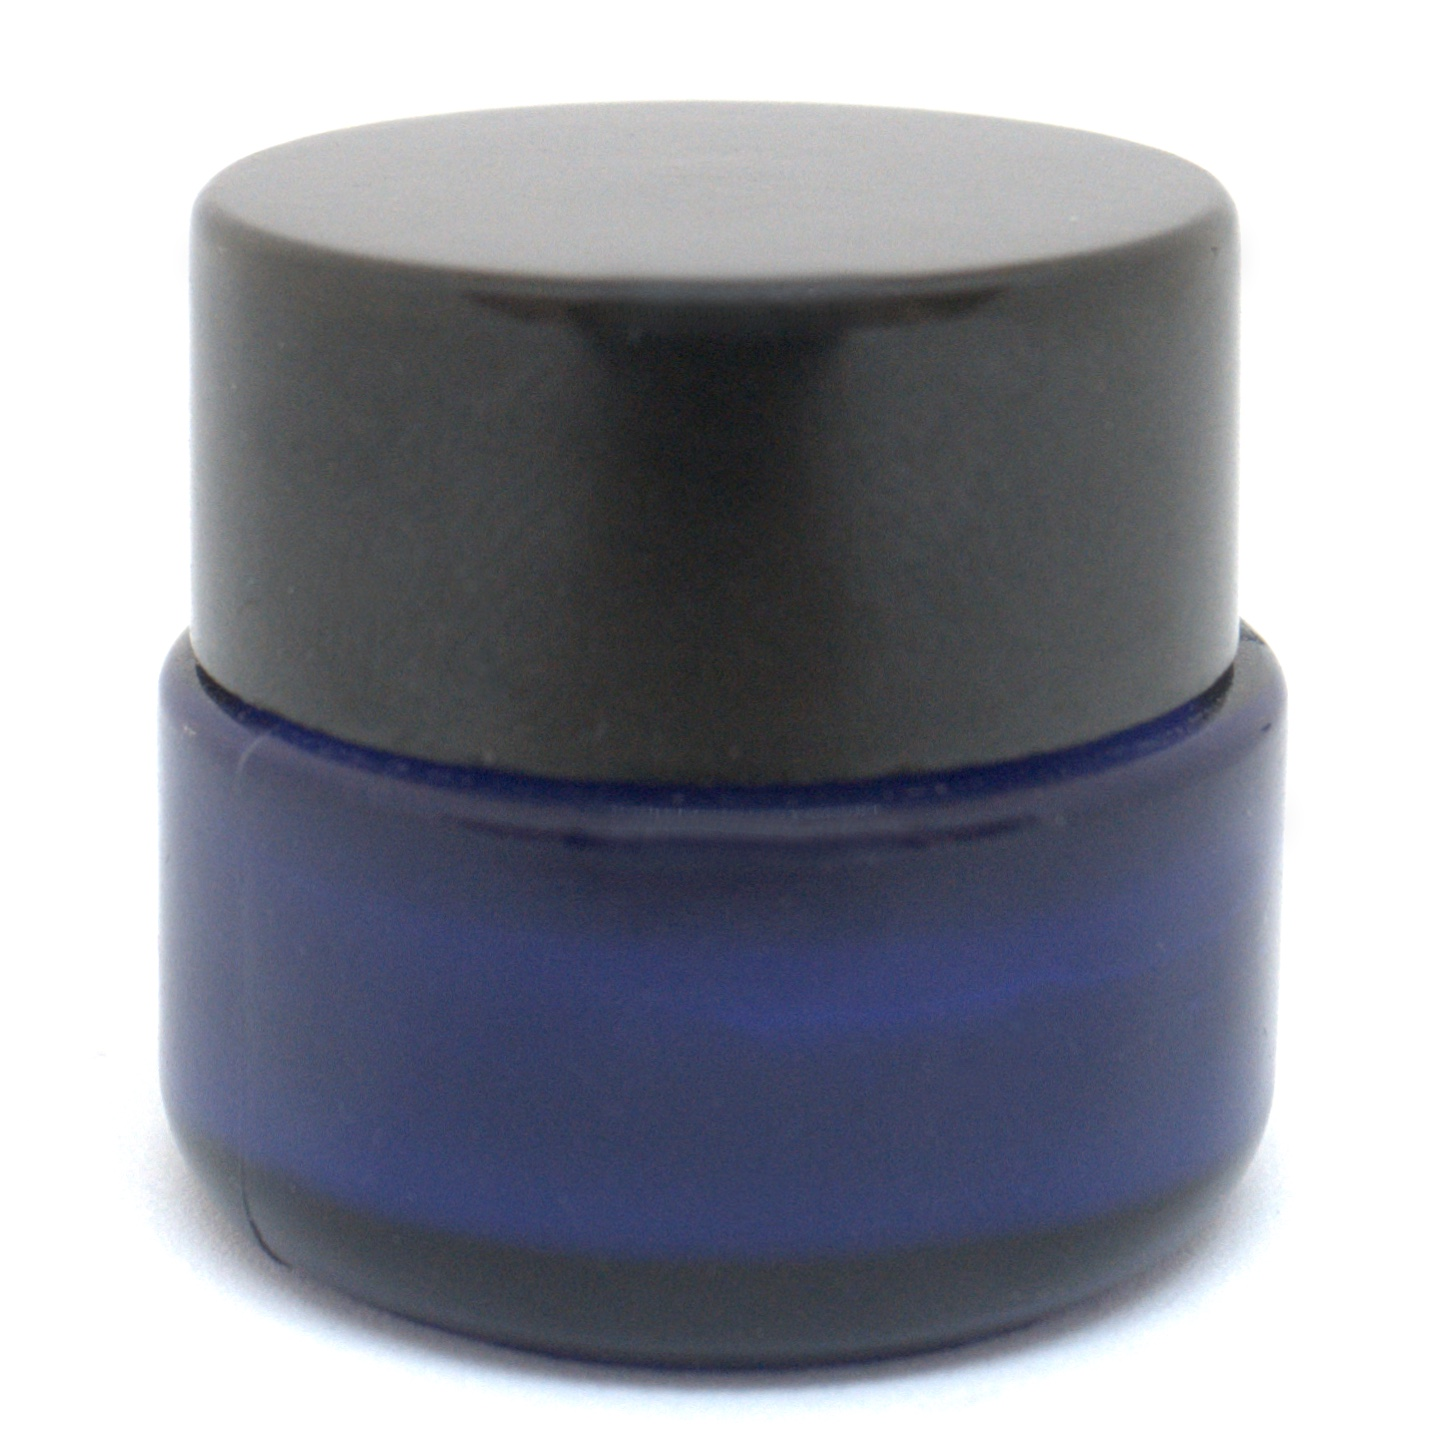
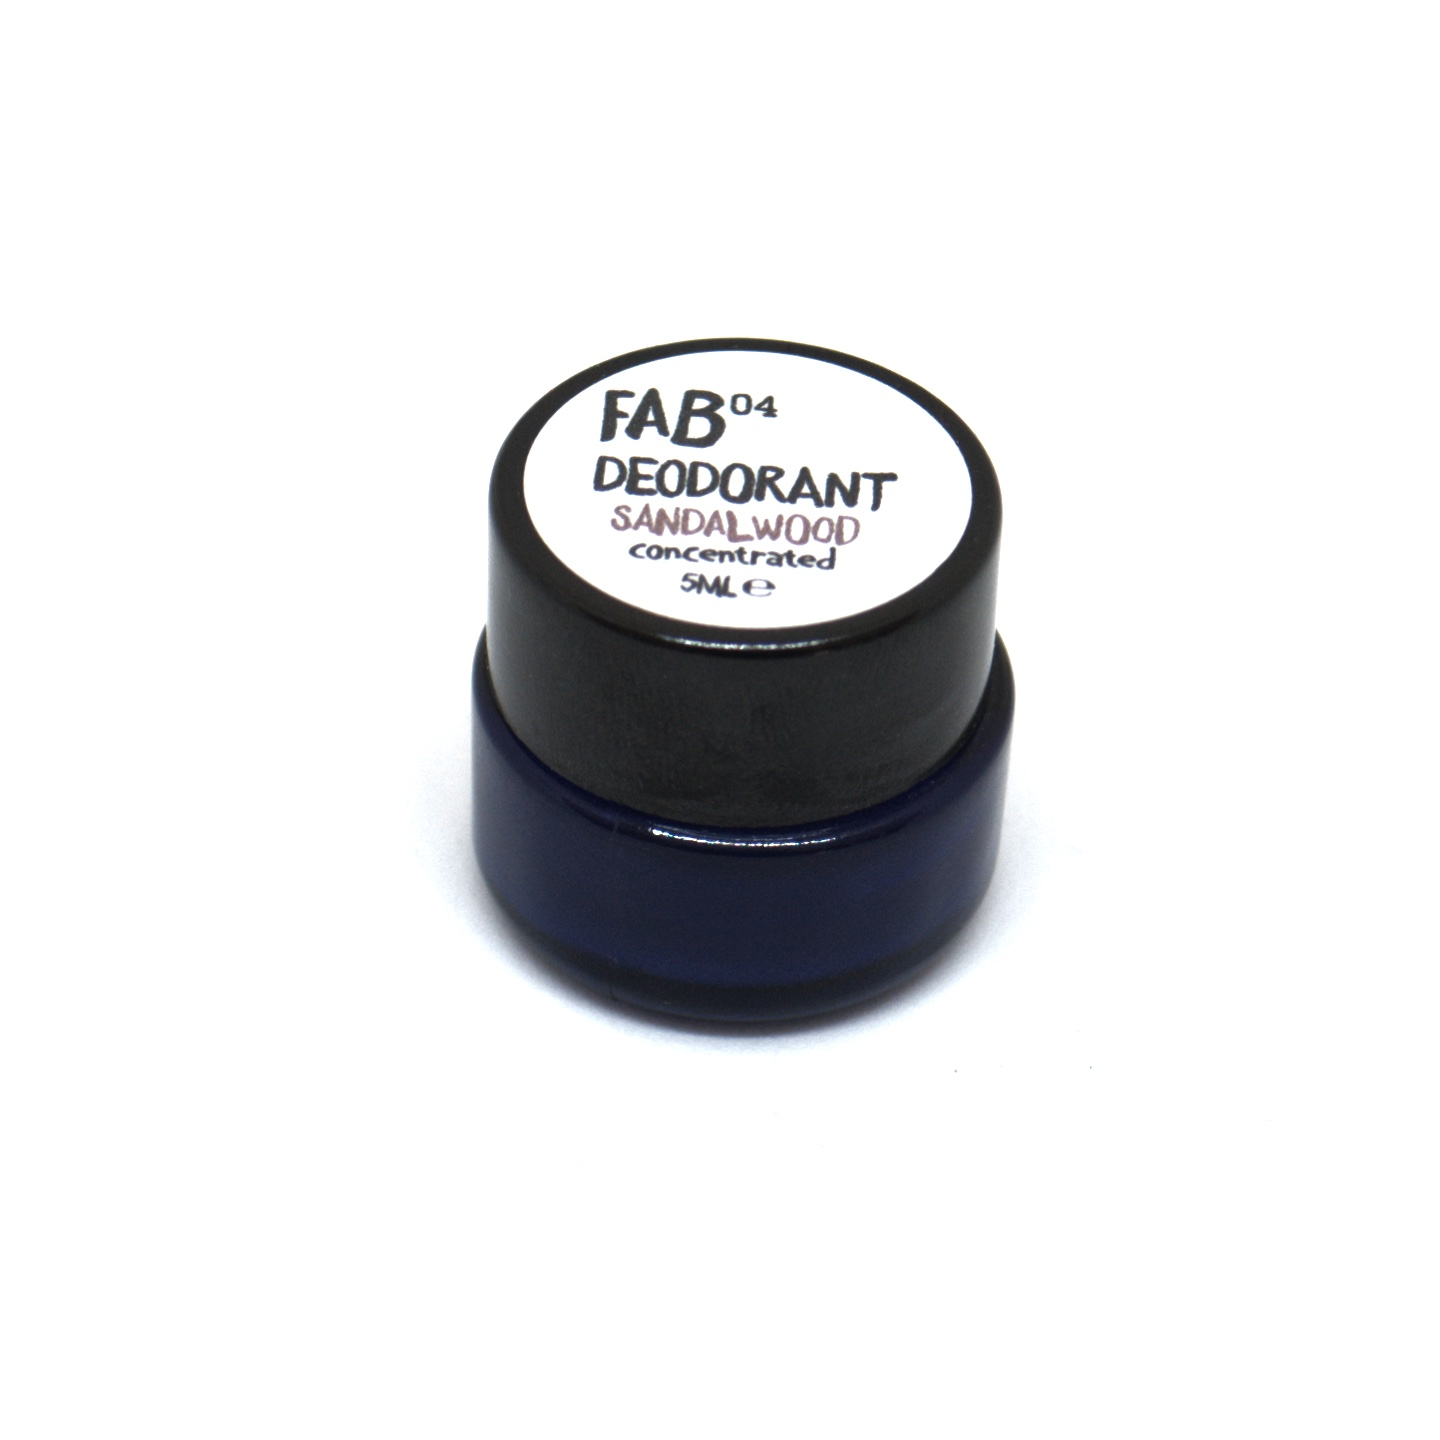
Updated fab 04 photos

diff --git a/_site/products/fab04/index.html b/_site/products/fab04/index.html
@@ -34,9 +34,9 @@
 <meta property="og:url" content="http://localhost:4000/products/fab04/" />
 <meta property="og:site_name" content="Interviews with people who eat plant based foods, online shop selling handmade products such as plant powered snack bars. Thoughts and ideas on sustainability, yoga, food" />
 <meta property="og:type" content="article" />
-<meta property="article:published_time" content="2018-07-11T13:21:10+00:00" />
+<meta property="article:published_time" content="2018-07-12T11:44:50+00:00" />
 <script type="application/ld+json">
-{"description":"A deodorant made from natural oils, that does not block sweat pores on the skin. Perspiration is a natural homeostatic process, that secretes a salty fluid—why would you want to interfere with that? Which is what deodarants or antiperspirants made with lots of chemicals do—some even contain aluminium which is toxic. Sometimes that salty fluid can smell and FAB deodarant is a great way to clean the fluid and the sandalwood will leave a subtle beautiful smell on your armpit. FAB_04 deodarant does not feel greasy when applied. It’s very concentrated and a little goes a long way. The FAB_04 deodorant will not interfere with your perfume or make-up. It’s a unisex product. I use it everyday FAB_04 is scented with sandalwood, making it a great smelling deodorant. The 5ml pot is transportable and easy to use. Fab when you need to use it any time of the day.","author":{"@type":"Person","name":"Rajiv Shah"},"@type":"BlogPosting","url":"http://localhost:4000/products/fab04/","headline":"FAB 04","dateModified":"2018-07-11T13:21:10+00:00","datePublished":"2018-07-11T13:21:10+00:00","mainEntityOfPage":{"@type":"WebPage","@id":"http://localhost:4000/products/fab04/"},"@context":"http://schema.org"}</script>
+{"description":"A deodorant made from natural oils, that does not block sweat pores on the skin. Perspiration is a natural homeostatic process, that secretes a salty fluid—why would you want to interfere with that? Which is what deodarants or antiperspirants made with lots of chemicals do—some even contain aluminium which is toxic. Sometimes that salty fluid can smell and FAB deodarant is a great way to clean the fluid and the sandalwood will leave a subtle beautiful smell on your armpit. FAB_04 deodarant does not feel greasy when applied. It’s very concentrated and a little goes a long way. The FAB_04 deodorant will not interfere with your perfume or make-up. It’s a unisex product. I use it everyday FAB_04 is scented with sandalwood, making it a great smelling deodorant. The 5ml pot is transportable and easy to use. Fab when you need to use it any time of the day.","author":{"@type":"Person","name":"Rajiv Shah"},"@type":"BlogPosting","url":"http://localhost:4000/products/fab04/","headline":"FAB 04","dateModified":"2018-07-12T11:44:50+00:00","datePublished":"2018-07-12T11:44:50+00:00","mainEntityOfPage":{"@type":"WebPage","@id":"http://localhost:4000/products/fab04/"},"@context":"http://schema.org"}</script>
 <!-- End Jekyll SEO tag -->
 
 </head>

diff --git a/_site/products/fab03/index.html b/_site/products/fab03/index.html
@@ -34,9 +34,9 @@
 <meta property="og:url" content="http://localhost:4000/products/fab03/" />
 <meta property="og:site_name" content="Interviews with people who eat plant based foods, online shop selling handmade products such as plant powered snack bars. Thoughts and ideas on sustainability, yoga, food" />
 <meta property="og:type" content="article" />
-<meta property="article:published_time" content="2018-07-11T13:21:10+00:00" />
+<meta property="article:published_time" content="2018-07-12T11:44:50+00:00" />
 <script type="application/ld+json">
-{"description":"An all over face and body butter. It does not feel greasy when applied. It’s very concentrated and a little goes a long way. The FAB range will not interfere with your perfume or make-up. It’s a multi-purpose, unisex product. You can use it on your: Face Lips Body Nails Cracked or flaky skin FAB_03 is unscented, making it a great lip balm. The 5ml pot is transportable and easy to use. Fab when you need to mositurise your lips at any time of the day. The double FAB method is when you appy the butter first, and then the oil on top. Try this to give you super soft skin. Especially great for when you have really dry, flaky or cracked skin.","author":{"@type":"Person","name":"Rajiv Shah"},"@type":"BlogPosting","url":"http://localhost:4000/products/fab03/","headline":"FAB 03","dateModified":"2018-07-11T13:21:10+00:00","datePublished":"2018-07-11T13:21:10+00:00","mainEntityOfPage":{"@type":"WebPage","@id":"http://localhost:4000/products/fab03/"},"@context":"http://schema.org"}</script>
+{"description":"An all over face and body butter. It does not feel greasy when applied. It’s very concentrated and a little goes a long way. The FAB range will not interfere with your perfume or make-up. It’s a multi-purpose, unisex product. You can use it on your: Face Lips Body Nails Cracked or flaky skin FAB_03 is unscented, making it a great lip balm. The 5ml pot is transportable and easy to use. Fab when you need to mositurise your lips at any time of the day. The double FAB method is when you appy the butter first, and then the oil on top. Try this to give you super soft skin. Especially great for when you have really dry, flaky or cracked skin.","author":{"@type":"Person","name":"Rajiv Shah"},"@type":"BlogPosting","url":"http://localhost:4000/products/fab03/","headline":"FAB 03","dateModified":"2018-07-12T11:44:50+00:00","datePublished":"2018-07-12T11:44:50+00:00","mainEntityOfPage":{"@type":"WebPage","@id":"http://localhost:4000/products/fab03/"},"@context":"http://schema.org"}</script>
 <!-- End Jekyll SEO tag -->
 
 </head>

diff --git a/_site/products/fab02/index.html b/_site/products/fab02/index.html
@@ -34,9 +34,9 @@
 <meta property="og:url" content="http://localhost:4000/products/fab02/" />
 <meta property="og:site_name" content="Interviews with people who eat plant based foods, online shop selling handmade products such as plant powered snack bars. Thoughts and ideas on sustainability, yoga, food" />
 <meta property="og:type" content="article" />
-<meta property="article:published_time" content="2018-07-11T13:21:10+00:00" />
+<meta property="article:published_time" content="2018-07-12T11:44:50+00:00" />
 <script type="application/ld+json">
-{"description":"An all over face, body and hair butter. It does not feel greasy when applied. It’s very concentrated and a little goes a long way. The FAB range will not interfere with your perfume or make-up. It’s a multi-purpose, unisex product. You can use it on your: Face Body Nails Cracked or flaky skin Use it for moisturising or washing. See instructions below. The double FAB method is when you appy the butter first, and then the oil on top. Try this to give you super soft skin. Especially great for when you have really dry, flaky or cracked skin. Transportable and easy to use.","author":{"@type":"Person","name":"Rajiv Shah"},"@type":"BlogPosting","url":"http://localhost:4000/products/fab02/","headline":"FAB 02","dateModified":"2018-07-11T13:21:10+00:00","datePublished":"2018-07-11T13:21:10+00:00","mainEntityOfPage":{"@type":"WebPage","@id":"http://localhost:4000/products/fab02/"},"@context":"http://schema.org"}</script>
+{"description":"An all over face, body and hair butter. It does not feel greasy when applied. It’s very concentrated and a little goes a long way. The FAB range will not interfere with your perfume or make-up. It’s a multi-purpose, unisex product. You can use it on your: Face Body Nails Cracked or flaky skin Use it for moisturising or washing. See instructions below. The double FAB method is when you appy the butter first, and then the oil on top. Try this to give you super soft skin. Especially great for when you have really dry, flaky or cracked skin. Transportable and easy to use.","author":{"@type":"Person","name":"Rajiv Shah"},"@type":"BlogPosting","url":"http://localhost:4000/products/fab02/","headline":"FAB 02","dateModified":"2018-07-12T11:44:50+00:00","datePublished":"2018-07-12T11:44:50+00:00","mainEntityOfPage":{"@type":"WebPage","@id":"http://localhost:4000/products/fab02/"},"@context":"http://schema.org"}</script>
 <!-- End Jekyll SEO tag -->
 
 </head>

diff --git a/_site/index.html b/_site/index.html
@@ -280,7 +280,7 @@
                                   
               <div class="tile is-4 is-vertical is-parent is-shop">
      <div class="tile is-child">
-      <img class="is-square" src="/uploads/fab04-deodarant-5ml.jpeg" alt="FAB" />
+      <img class="is-square" src="/uploads/fab04-deodarant-5ml-label.jpeg" alt="FAB" />
        <h3 class="title is-size-4">FAB</h3>     
  <p><strong>FAB</strong>—skin food that changes the way you clean, protect and norish the largest organ in your body. It’s super concentrated, multi-use, unisex and made from plants. <a href="https://yomojo.co.uk/skinfood">Available now</a>.</p>
 
